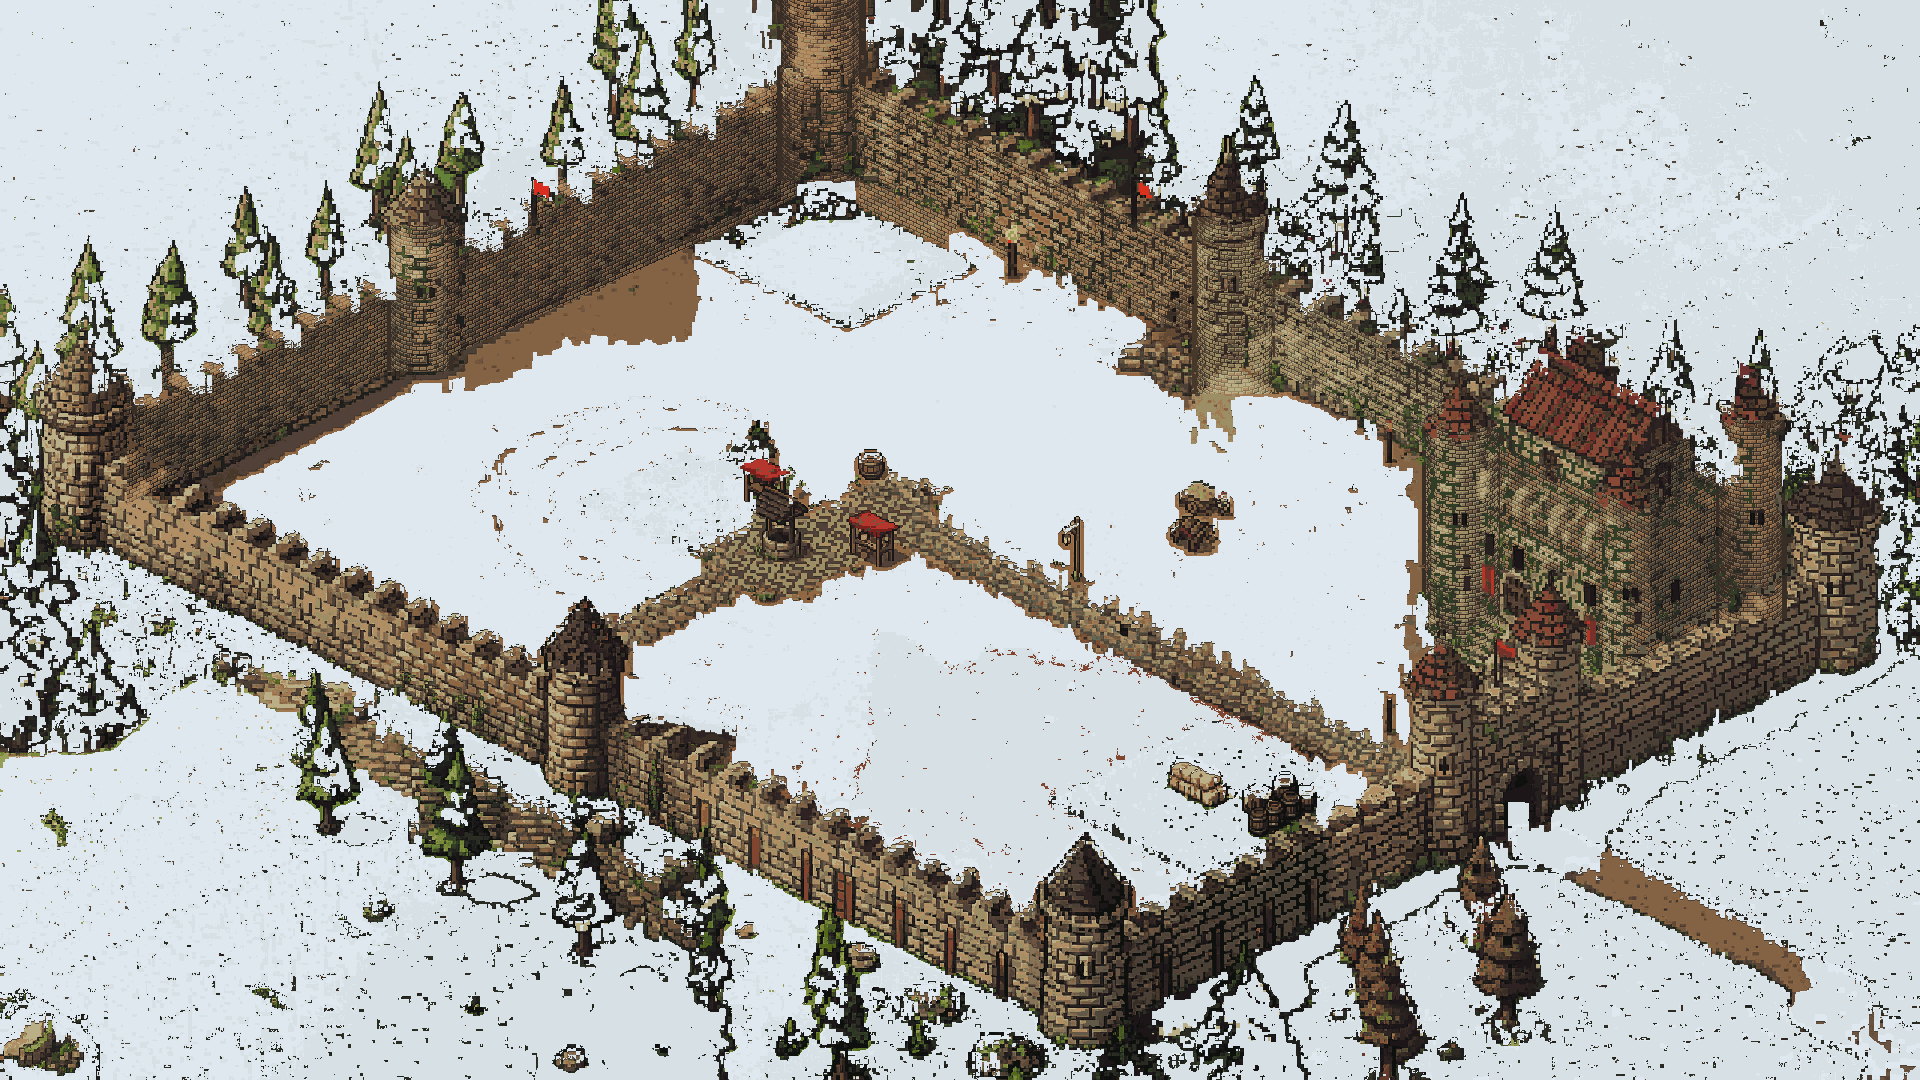
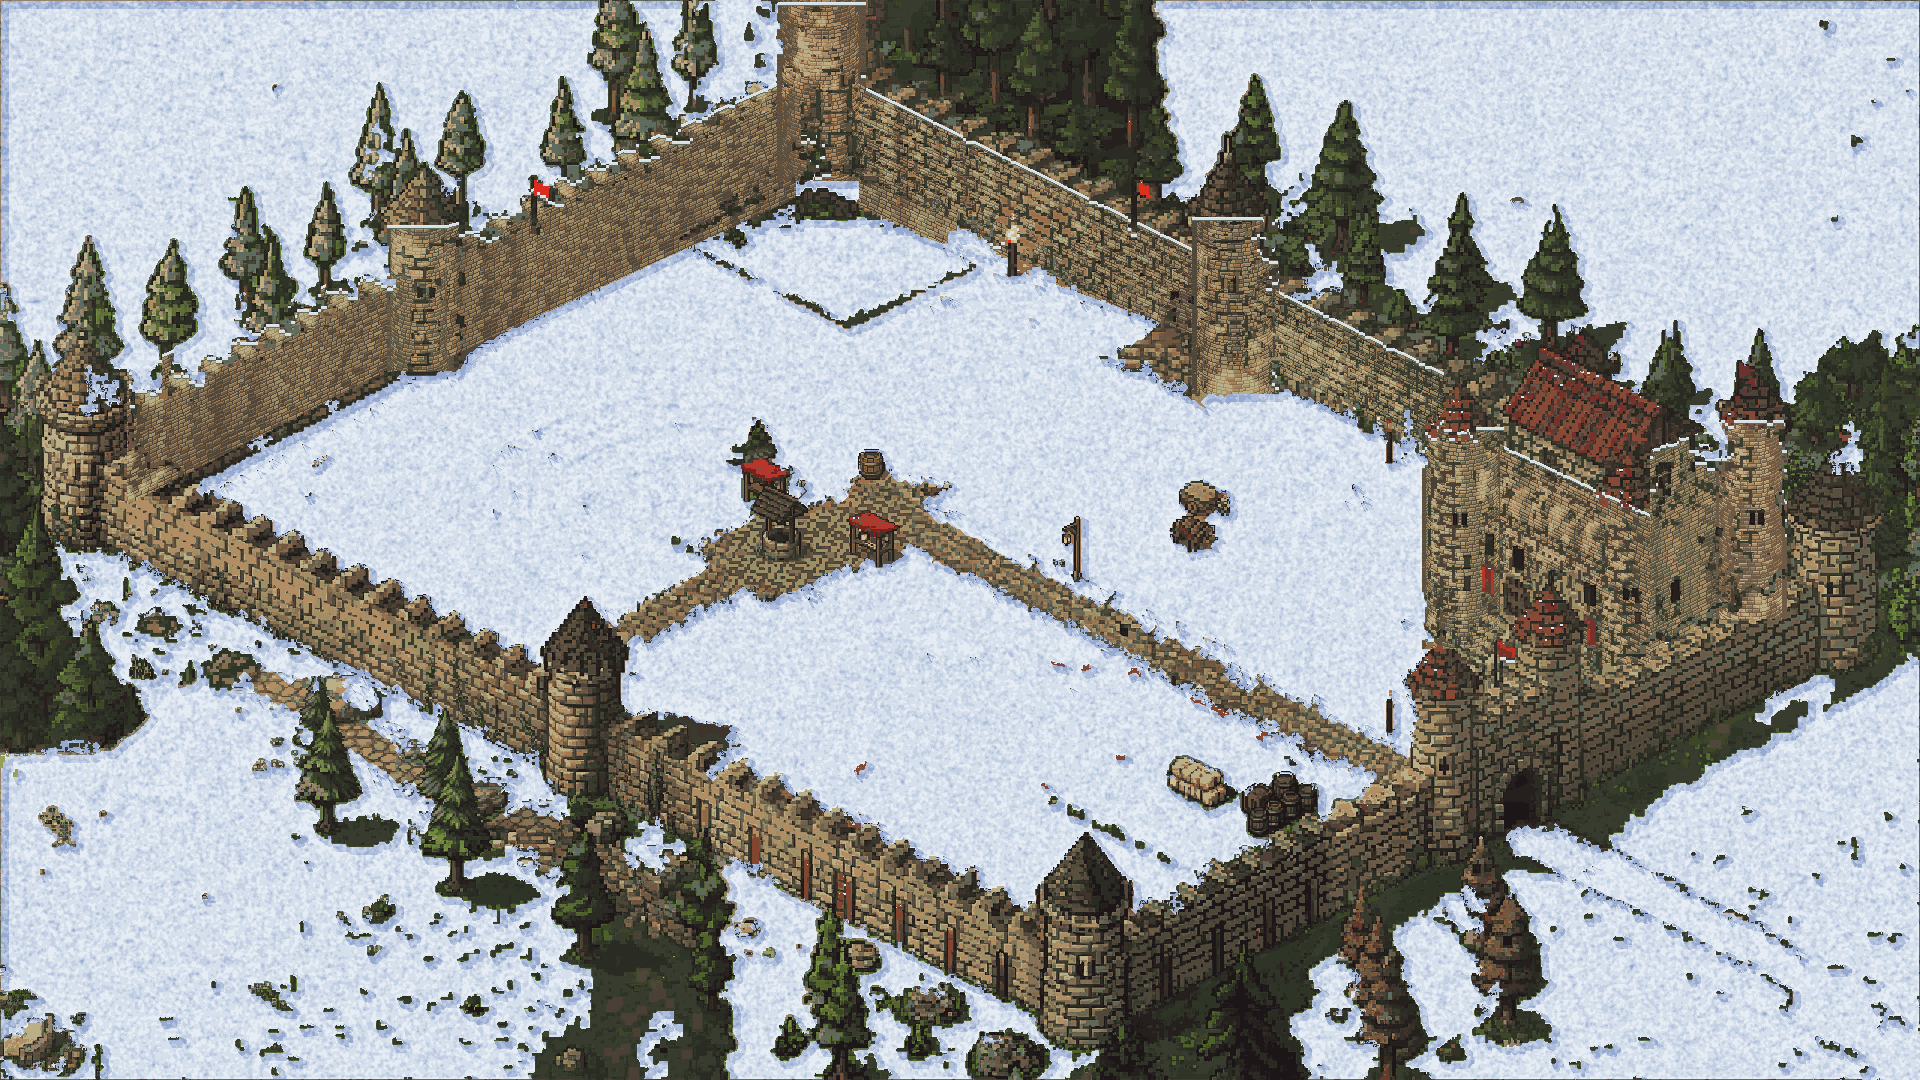
Ic kale: duzensiz tas deseni, kis yeniden yapildi, kis gecesi karli
Yaz: tas deseni duzensiz (sira 3-4 px, tas 5/7/9 px, rastgele kaydirma, +-2 ton,
ara sira koyu/yosunlu tas, ust kenarda sicak vurgu). Isik ve ton olcumunden eski
derzler cikarildi (arka sur aydinlandi), ton yuz basina degil goruntu geneline
yariyariya esitlendi (kule-sur dikisi), ana kale yuzlerinde kontrast eskiye
gore. Sol alttaki kaya yigini, yol taslari, sarmasik ve calilar eskiden geri.
Kis (kar2.py): agac, sur ve catilar butun bolgeler olarak korunur, kar yalniz
yukari bakan kenarlara (sur ustu, mazgal, kule ve cati tepesi 2-3 px, dal
ustleri 1-2 px), zemin karli bina varyantlarindan turetilen 5 tonla, kumeli
doku ve nesnelerin sag-alt yaninda mavi golge. Kucuk kirintilar ve toprak
haleleri kara katildi, yosun ve yaz yesilleri sogutuldu.
varyant.js: kis gecesi zemin ve on surlar karli doku + gece tonu.

diff --git a/motor-deneme-5b8e2f/js/varyant.js b/motor-deneme-5b8e2f/js/varyant.js
@@ -118,6 +118,10 @@ const Varyant = {
         c.temelDoku = c.temelDoku || k;
         const ozel = (h === 'karli' || h === 'gece') ? c.temelDoku + '_' + h : null;
         if (ozel && sahne.textures.exists(ozel)) { if (k !== ozel) c.setTexture(ozel); this.geceTonu(c, ozel); continue; }
+        // kış gecesi: zemin ve ön surlar karlı kalır, üstüne gece tonu (yoksa karsız yaz zemini görünürdü)
+        const kisDoku = c.temelDoku + '_karli';
+        if (h === 'gece' && /^k_(arka|on)$/.test(c.temelDoku) && this.sezon(sahne.oyun).varyant === 'karli'
+            && sahne.textures.exists(kisDoku)) { if (k !== kisDoku) c.setTexture(kisDoku); c.setTint(ton); continue; }
         if (k !== c.temelDoku) c.setTexture(c.temelDoku);
       }
       if (ton === null) c.clearTint(); else c.setTint(ton);

diff --git a/motor-deneme-5b8e2f/uretim/betikler/kar2.py b/motor-deneme-5b8e2f/uretim/betikler/kar2.py
@@ -1,0 +1,206 @@
+"""Winter, second approach: objects stay whole, snow only where it would lie.
+
+1. Ground = smooth grass, dirt, grass in shadow, lit grass/field away from trees. Tiny leftovers of
+   either class (< 30 px) are merged into the other, so no black splinters stay in the snow.
+2. Ground snow: 4 tones taken from the snowy building variants (assets/kale/varyant/*_karli), small
+   clustered texture, blue shadow on the lower-right side of every object (light from the top left),
+   a lighter drift along object feet facing the light.
+3. Objects keep their pixels. Snow caps where a pixel faces up: trees 1-2 px on branch tops, walls
+   and towers 2-3 px on wall tops / merlons / tower caps (from the stone mask of the old art, so the
+   new mortar lines do not count as edges), roofs 2 px on their top edge, a 1 px cold line under
+   wall caps. Moss / summer greens on stone are cooled, tree trunks slightly cooled.
+
+  python kar2.py arka on
+"""
+import glob
+import os
+import sys
+
+import numpy as np
+from PIL import Image
+from scipy import ndimage
+
+sys.path.insert(0, os.path.dirname(os.path.abspath(__file__)))
+import arka_hd as A  # noqa: E402
+import tas_desen as T  # noqa: E402
+
+HD = "D:/AI/ComfyUI/output/son-kale-v2/arka_hd"
+KALE = "D:/AI/son-kale/motor-deneme-5b8e2f/assets/kale"
+
+
+def kar_tonlari(n=5):
+    """Snow tones of the snowy building variants, light to dark."""
+    px = []
+    for p in glob.glob(f"{KALE}/varyant/*_karli.png"):
+        a = np.asarray(Image.open(p).convert("RGBA")).reshape(-1, 4)
+        a = a[a[:, 3] > 200][:, :3].astype(np.float32)
+        mx, mn = a.max(1), a.min(1)
+        sat = (mx - mn) / np.maximum(mx, 1)
+        lum = a @ [0.299, 0.587, 0.114]
+        px.append(a[(sat < 0.22) & (lum > 120) & (a[:, 2] >= a[:, 0] - 4)])
+    px = np.concatenate(px)
+    lum = px @ [0.299, 0.587, 0.114]
+    # the variants' snow is nearly one colour: start from their lightest tone and step towards a cold
+    # blue grey, so the ground has 3-4 readable tones and a shadow tone
+    acik = np.median(px[lum >= np.quantile(lum, 0.8)], 0)
+    adim = np.array([[0, 0, 0], [16, 13, 7], [34, 28, 15], [56, 46, 24], [80, 66, 34]], np.float32)
+    return np.clip(acik - adim[:n], 0, 255)
+
+
+ZEMIN = []
+
+
+def kaydir(m, dy, dx):
+    out = np.zeros_like(m)
+    H, W = m.shape
+    ys, yd = (slice(0, H - dy), slice(dy, H)) if dy >= 0 else (slice(-dy, H), slice(0, H + dy))
+    xs, xd = (slice(0, W - dx), slice(dx, W)) if dx >= 0 else (slice(-dx, W), slice(0, W + dx))
+    out[yd, xd] = m[ys, xs]
+    return out
+
+
+def karla(ad, im):
+    a = np.asarray(im.convert("RGBA"))
+    H, W = a.shape[:2]
+    alfa = a[..., 3] > 0
+    f = a[..., :3].astype(np.float32)
+    r, g, b = f[..., 0], f[..., 1], f[..., 2]
+    lum = f @ [0.299, 0.587, 0.114]
+    mx, mn = f.max(-1), f.min(-1)
+    sat = (mx - mn) / np.maximum(mx, 1)
+    mo = ndimage.uniform_filter(lum, 7)
+    sd = np.sqrt(np.maximum(ndimage.uniform_filter(lum ** 2, 7) - mo ** 2, 0))
+
+    # structures of the old art (stone mask inside the face polygons) and roofs
+    o = np.asarray(Image.open(f"{T.ORJ}/{ad}.png").convert("RGBA").resize((W, H), Image.Resampling.NEAREST))
+    tas = T.tas_maskesi(o)
+    yuz = np.zeros((H, W), bool)
+    for kind, poli, par in T.YUZLER[ad]:
+        _, m = T.desen(H, W, poli, kind, par, np.zeros((H, W)), np.zeros((9, 3)), 1)
+        yuz |= m
+    # whole regions, not per-pixel classes: vines and mortar must not split a wall into "tops"
+    yapi = ndimage.binary_fill_holes(ndimage.binary_closing(tas & yuz, np.ones((5, 5)))) & yuz
+    cati0 = (r > g * 1.3) & (sat >= 0.4) & (g < r * 0.6)
+    lab, n = ndimage.label(cati0)
+    if n:
+        boy = np.bincount(lab.ravel()); boy[0] = 0
+        cati0 &= (boy >= 20)[lab]
+    cati = ndimage.binary_fill_holes(ndimage.binary_closing(cati0, np.ones((5, 5))))
+
+    yesil = (g >= r * 0.98) & (g > b * 1.1)
+    # trees: dark-green cores of a fair size, grown into whole crowns (lit needles included)
+    # crowns: dark green needles + the near-black outline around them close the shape, then fill it
+    koyu = ((yesil & (lum <= 62)) | (lum <= 40)) & ~yapi & ~cati
+    lab, n = ndimage.label(koyu)
+    if n:
+        boy = np.bincount(lab.ravel()); boy[0] = 0
+        koyu &= (boy >= 25)[lab]
+    agac = ndimage.binary_fill_holes(ndimage.binary_closing(koyu, np.ones((5, 5))))
+    agac &= ~ndimage.binary_opening(cimen0 := ((g > r * 1.02) & (g > b * 1.12) & (lum > 55) & (lum < 125)), np.ones((9, 9)))
+    agac = ndimage.binary_dilation(agac, iterations=1) & ~yapi & ~cati
+    cimen = (g > r * 1.02) & (g > b * 1.12) & (lum > 55)
+    toprak = (r > g * 1.25) & (g > r * 0.52) & (g > b * 1.05) & (lum > 42) & (lum < 175)
+    zemin = (cimen & (sd < 30)) | (toprak & (sd < 18)) | (yesil & (lum <= 62) & (sd < 9))
+    zemin &= ~agac
+    if ad == "arka":
+        # dark roof backs and trunks behind the keep are not dirt
+        zemin[int(195 * 1.5):int(300 * 1.5), int(960 * 1.5):int(1150 * 1.5)] &= cimen[int(195 * 1.5):int(300 * 1.5), int(960 * 1.5):int(1150 * 1.5)] & ~agac[int(195 * 1.5):int(300 * 1.5), int(960 * 1.5):int(1150 * 1.5)]
+        # north field: wheat and grass patch inside the courtyard corner is ground as well
+        tarla = np.zeros((H, W), bool); tarla[220:292, 750:942] = True
+        zemin |= tarla & (lum > 60) & ~yapi & (sat < 0.7)
+    else:
+        zemin &= cimen
+    zemin &= alfa & ~yapi & ~cati
+    zemin = ndimage.binary_closing(zemin, np.ones((3, 3))) & alfa & ~yapi & ~cati
+    # tiny islands: object specks inside snow -> snow, snow specks inside objects -> object
+    lab, n = ndimage.label(~zemin & alfa)
+    if n:
+        boy = np.bincount(lab.ravel()); boy[0] = 0
+        zemin |= (boy < 30)[lab] & ~yapi & ~cati & ~agac & (lab > 0)
+    lab, n = ndimage.label(zemin)
+    if n:
+        boy = np.bincount(lab.ravel()); boy[0] = 0
+        zemin &= (boy >= 400)[lab]   # pockets inside tree crowns stay part of the tree
+    # brown rims and old cart tracks: dirt-coloured pixels touching the snow join it
+    kir = (r > g * 1.15) & (g > b * 1.0) & (lum > 28) & (lum < 175) & alfa & ~yapi & ~cati & ~agac
+    for _ in range(3):
+        zemin |= ndimage.binary_dilation(zemin, iterations=2) & kir
+    nesne = alfa & ~zemin
+
+    ton = kar_tonlari()           # 5 tones light -> dark (blue grey)
+    out = f.copy()
+    # ground texture: old brightness (bumps, tracks) + small clustered noise, 4 tones
+    rng = np.random.default_rng(3)
+    gur = ndimage.gaussian_filter(rng.standard_normal((H, W)), 1.1)
+    gur /= gur.std() + 1e-6
+    yerel = ndimage.gaussian_filter(lum, 1.0)
+    yerel = (yerel - ndimage.gaussian_filter(lum, 12)) / 25.0
+    t = 1.0 - 0.9 * yerel - 0.6 * gur                      # ~0 light .. ~3 dark
+    # shadow: an object up-left of the pixel (light from the top left)
+    golge = np.zeros((H, W), bool)
+    for k in range(1, 9):
+        golge |= kaydir(nesne, k // 2, k)
+        golge |= kaydir(nesne, k, k // 2)
+    golge &= zemin
+    yakin = ndimage.binary_dilation(nesne, iterations=2) & zemin
+    t = np.where(golge, t + 2.2, t)
+    t = np.where(yakin & ~golge, t - 0.8, t)               # light-facing drift at object feet
+    idx = np.clip(np.round(t), 0, 4).astype(int)
+    out[zemin] = ton[idx][zemin]
+    ZEMIN[:] = [zemin]
+
+    # caps on objects
+    acik = zemin | ~alfa                                   # open space above a cap
+    # structures: top faces = stone pixels whose pixel above is not stone (old art mask, so the new
+    # mortar does not count); 2-3 px deep
+    ust = yapi & ~kaydir(yapi, 1, 0)
+    kap_y = ust.copy()
+    for d in (1, 2):
+        kap_y |= kaydir(ust, d, 0) & yapi
+    kap_y &= alfa
+    out[kap_y] = ton[np.where(kaydir(kap_y, 1, 0) & kap_y, 1, 0)][kap_y]
+    alt = kaydir(kap_y, 1, 0) & ~kap_y & yapi
+    out[alt] = np.array([88, 96, 122], np.float32)
+    # roofs: 2 px on the top edge
+    ust_c = cati & ~kaydir(cati, 1, 0)
+    kap_c = (ust_c | (kaydir(ust_c, 1, 0) & cati)) & alfa
+    out[kap_c] = ton[0]
+    # trees: 1-2 px on branch tops facing open sky / snow
+    agac_n = agac & nesne
+    ust_a = agac_n & kaydir(acik, 1, 0)
+    kap_a = ust_a | (kaydir(ust_a, 1, 0) & agac_n & (lum > 45))
+    out[kap_a] = ton[np.where(ust_a, 0, 1)][kap_a]
+    # cool what is left: moss on stone, summer greens, trunks; then a light winter cast on objects
+    kalan = nesne & ~kap_y & ~kap_c & ~kap_a & ~alt
+    yosun = kalan & yesil & ~agac
+    gri = out[yosun] @ [0.299, 0.587, 0.114]
+    out[yosun] = np.stack([gri * 0.92, gri * 0.97, gri * 1.08], -1)
+    agac_k = kalan & agac
+    out[agac_k] = out[agac_k] * np.array([0.9, 0.95, 1.06])
+    out[kalan] = out[kalan] * 0.92 + np.array([168, 182, 210], np.float32) * 0.08
+    return np.clip(out, 0, 255)
+
+
+def kis(ad):
+    yaz = Image.open(f"{HD}/{ad}_desen.png").convert("RGBA")
+    a = np.asarray(yaz)
+    k = karla(ad, yaz)
+    q = np.asarray(A.kuantala(Image.fromarray(k.astype(np.uint8)), A.palet(ad, kis=True))).copy()
+    fa = a[..., :3].astype(np.float32)
+    kir = (fa[..., 0] > 100) & (fa[..., 0] > fa[..., 1] * 1.6) & (fa[..., 0] > fa[..., 2] * 1.6)
+    lab, n = ndimage.label(kir)
+    if n:
+        boy = np.bincount(lab.ravel()); boy[0] = 0
+        kir &= (boy < 1500)[lab]
+    q[kir] = a[kir, :3]
+    z = ZEMIN[0]
+    q[z] = k[z].astype(np.uint8)          # snow tones bypass the palette (it would merge them)
+    out = Image.fromarray(np.dstack([q, a[..., 3]]).astype(np.uint8), "RGBA") if ad == "on" else Image.fromarray(q.astype(np.uint8))
+    p = f"{HD}/{ad}_karli.png"
+    out.save(p)
+    print(p)
+
+
+if __name__ == "__main__":
+    for ad in sys.argv[1:]:
+        kis(ad)

diff --git a/motor-deneme-5b8e2f/uretim/betikler/tas_desen.py b/motor-deneme-5b8e2f/uretim/betikler/tas_desen.py
@@ -27,6 +27,9 @@ CIKTI = "D:/AI/son-kale-cikti"
 S = 1.5
 BW, BH = 7, 4   # stone length / height in screen px
 
+GENEL = {}
+KALE_YUZ = {"arka": 7}   # faces from this index on are the keep (contrast matched to the old keep)
+
 # boxes (original coords) the pattern must not touch: small red-roofed tower and door in front of the keep
 HARIC = {"on": [], "arka": [(1000, 380, 1056, 450)]}
 
@@ -106,43 +109,70 @@ def tas_maskesi(o):
 
 
 def desen(H, W, poli, kind, par, isik, ramp, tohum=1):
-    """Pattern (colour per pixel) + mask for one face, in HD coords."""
+    """Pattern (colour per pixel) + mask for one face, in HD coords.
+
+    Irregular courses: every row is 3 or 4 px high, every stone 5, 7 or 9 px long, rows start at a
+    random offset; per stone a tone step of -2..+2, now and then a dark or mossy stone."""
     rng = np.random.default_rng(tohum)
-    yy, xx = np.mgrid[0:H, 0:W]
+    m = Image.new("L", (W, H), 0)
+    ImageDraw.Draw(m).polygon([(x * S, y * S) for x, y in poli], fill=255)
+    m = np.asarray(m) > 0
+    yy, xx = np.nonzero(m)
     if kind == "duz":
-        # rows parallel to the wall: v = y - slope * x, in 2:1 pixel steps
         v = yy - np.floor(xx * par).astype(int) if par > 0 else yy + np.floor(xx * -par).astype(int)
         u = xx.astype(np.float64)
-        isik_kenar = 0.0
+        kenar_k = np.zeros(len(xx))
+        dx = None
     else:
         cx, r = par[0] * S, par[1] * S
         dx = np.clip((xx + 0.5 - cx) / r, -0.999, 0.999)
-        v = (yy - np.round(0.5 * r * np.sqrt(1 - dx ** 2))).astype(int)   # rows bend with the ellipse
-        u = np.arcsin(dx) * r                                              # arc length along the row
-        isik_kenar = np.abs(dx)
-    sira = np.floor_divide(v, BH)
-    vi = v - sira * BH
-    kay = (sira % 2) * (BW // 2)
-    tas = np.floor((u + kay) / BW).astype(int)
-    ui = (u + kay) - tas * BW
-    # per-stone tone step (-1, 0, +1) from a hash of (row, stone)
-    h = (sira * 73856093) ^ (tas * 19349663) ^ tohum
-    adim = (np.abs(h) % 7)
-    adim = np.where(adim < 2, -1, np.where(adim > 4, 1, 0))
-    # base index from the old art's brightness (and darker towards a tower's edges)
-    taban = isik + isik_kenar ** 3 * 2.2
-    idx = np.round(taban).astype(int) + adim
-    derz = (vi == BH - 1) | (ui >= BW - 1)
-    kenar = ((vi == 0) | (ui < 1)) & ~derz
-    idx = np.where(kenar, idx - 2, idx)
+        v = (yy - np.round(0.5 * r * np.sqrt(1 - dx ** 2))).astype(int)
+        u = np.arcsin(dx) * r
+        kenar_k = np.abs(dx)
+    renk = np.zeros((H, W, 3), np.float32)
+    if len(xx) == 0:
+        return renk, m
+    # courses
+    v0, v1 = v.min(), v.max() + 1
+    yuk = rng.choice([3, 4, 4, 4], size=(v1 - v0) // 3 + 2)
+    bas = np.concatenate([[0], np.cumsum(yuk)])
+    sira = np.searchsorted(bas, v - v0, side="right") - 1
+    vi = (v - v0) - bas[sira]
+    sh = yuk[sira]
+    # stones along each course
+    u0 = u.min() - 10
+    tas = np.zeros(len(xx), int)
+    ui = np.zeros(len(xx))
+    boy = np.zeros(len(xx))
+    for s_ in np.unique(sira):
+        k = sira == s_
+        uu = u[k] - u0
+        L = rng.choice([5, 7, 7, 9], size=int(uu.max() // 5) + 3)
+        sb = np.concatenate([[0], np.cumsum(L)]) - rng.integers(0, 8)
+        t = np.searchsorted(sb, uu, side="right") - 1
+        tas[k] = t + s_ * 10000
+        ui[k] = uu - sb[t]
+        boy[k] = L[t]
+    hsh = (tas * 2654435761 + tohum * 97531) % 1000
+    adim = np.select([hsh < 120, hsh < 330, hsh < 670, hsh < 880], [-2, -1, 0, 1], 2)
+    koyu_tas = (hsh % 37) == 0
+    yosun = (hsh % 53) == 1
+    taban = isik[yy, xx] + kenar_k ** 3 * 2.2
+    idx = np.round(taban).astype(int) + adim + koyu_tas * 3
+    derz = (vi == sh - 1) | (ui >= boy - 1)
+    ust_k = (vi == 0) & ~derz
+    sol_k = (ui < 1) & ~derz & ~ust_k
+    idx = np.where(ust_k, idx - 2, idx)
+    idx = np.where(sol_k, idx - 1, idx)
     idx = np.where(derz, idx + 4, idx)
-    if kind == "kule":
-        idx = np.where(np.abs(dx) > 0.96, len(ramp) + 2, idx)   # tower silhouette against the wall
+    if dx is not None:
+        idx = np.where(np.abs(dx) > 0.96, len(ramp) + 2, idx)
     idx = np.clip(idx, 0, len(ramp) - 1)
-    renk = ramp[idx]
-    m = Image.new("L", (W, H), 0)
-    ImageDraw.Draw(m).polygon([(x * S, y * S) for x, y in poli], fill=255)
-    return renk, np.asarray(m) > 0
+    c = ramp[idx].astype(np.float32)
+    c[ust_k] += np.array([10, 6, -3], np.float32)          # warm light on the top edge (sun top left)
+    c[yosun & ~derz] = c[yosun & ~derz] * 0.6 + np.array([70, 86, 46], np.float32) * 0.4
+    renk[yy, xx] = np.clip(c, 0, 255)
+    return renk, m
 
 
 def uygula(ad, hd_img, yuzler=None):
@@ -152,19 +182,31 @@ def uygula(ad, hd_img, yuzler=None):
     ramp = tas_rampasi(ad=ad)
     rl = ramp @ [0.299, 0.587, 0.114]
     # brightness of the old art -> ramp index (blurred: face shading, not the old stones)
-    lum = ndimage.gaussian_filter(o[..., :3].astype(np.float32) @ [0.299, 0.587, 0.114], 3.0)
+    # old mortar lines removed (grey closing) before measuring the light, else dark walls stay dark
+    lum0 = ndimage.grey_closing(o[..., :3].astype(np.float32) @ [0.299, 0.587, 0.114], size=(3, 3))
+    lum = ndimage.gaussian_filter(lum0, 2.5)
     isik = np.interp(-lum, -rl, np.arange(len(ramp)))
     tas_m = tas_maskesi(o)
+    GENEL[ad] = o[tas_m & (lum0 > 60), :3].astype(np.float32).mean(0)
     for x0, y0, x1, y1 in HARIC.get(ad, []):
         tas_m[int(y0 * S):int(y1 * S), int(x0 * S):int(x1 * S)] = False
     out = np.asarray(hd_img.convert("RGBA")).copy()
     for i, (kind, poli, par) in enumerate(yuzler if yuzler is not None else YUZLER[ad]):
         renk, m = desen(H, W, poli, kind, par, isik, ramp, tohum=i + 1)
         m &= tas_m
-        # same average brightness as the old stones of this face
+        # brightness of the old STONES of this face (mortar left out), pulled half way to the whole
+        # image so towers and walls do not change tone at the seam; keep faces also get the old contrast
         if m.any():
-            eski = o[m, :3].astype(np.float32).mean(0)
-            renk = np.clip(renk + (eski - renk[m].mean(0)) * 0.9, 0, 255)
+            ta = m & (lum0 > 60)
+            eski = o[ta if ta.any() else m, :3].astype(np.float32).mean(0)
+            eski = eski * 0.5 + GENEL[ad] * 0.5
+            renk = np.clip(renk + (eski - renk[m].mean(0)), 0, 255)
+            if i >= KALE_YUZ.get(ad, 99):
+                lo = o[m, :3].astype(np.float32) @ [0.299, 0.587, 0.114]
+                ln = renk[m] @ [0.299, 0.587, 0.114]
+                k = np.clip(lo.std() / max(ln.std(), 1), 1.0, 1.6)
+                mm = renk[m].mean(0)
+                renk[m] = np.clip((renk[m] - mm) * k + mm * 1.06, 0, 255)
         out[m, :3] = renk[m].astype(np.uint8)
         # 1 px dark outline where the patterned stone meets sky / ground / transparency (merlons, edges)
         acik = ~tas_m if o.shape[-1] != 4 else (~tas_m | (o[..., 3] == 0))
@@ -212,6 +254,16 @@ def arka_son(im):
     kirmizi = (r > 100) & (r > g * 1.6) & (r > b * 1.6)
     geri = kale & (yesil | kirmizi)
     a[geri] = o[geri]
+    # bottom-left rubble / rocks, stones and vines at the wall foot, bushes: the redraw turned them to
+    # mud; the old art comes back there, except plain smooth grass
+    lum_o = of @ [0.299, 0.587, 0.114]
+    mo = ndimage.uniform_filter(lum_o, 7)
+    sd = np.sqrt(np.maximum(ndimage.uniform_filter(lum_o ** 2, 7) - mo ** 2, 0))
+    duz_cimen = (g > r * 1.02) & (g > b * 1.15) & (lum_o > 55) & (sd < 14)
+    for x0, y0, x1, y1 in ((330, 700, 560, 830), (130, 620, 480, 760)):     # screen coords
+        kut = np.zeros((H, W), bool); kut[y0:y1, x0:x1] = True
+        al = kut & ~ndimage.binary_opening(duz_cimen, np.ones((3, 3)))
+        a[al] = o[al]
     # torch / lamp flames: small bright yellow spots of the old art
     alev = (r > 170) & (g > 140) & (b < 120) & (r - b > 90)
     lab, n = ndimage.label(ndimage.binary_dilation(alev, iterations=1))

diff --git a/motor-deneme-5b8e2f/uretim/kisa-ozet.md b/motor-deneme-5b8e2f/uretim/kisa-ozet.md
@@ -98,7 +98,7 @@ python arka_hd.py tam arka --t 512 --ov 128 --denoise 0.4 --cn 0.5 --seed 7   # 
 python arka_hd.py tam on   --t 512 --ov 128 --denoise 0.4 --cn 0.5 --seed 7
 python tas_desen.py on        # surlara kodla düzenli taş deseni -> on_desen.png
 python tas_desen.py arka      # aynı + ana kale sarmaşık/kırmızı, meşale, ön sur halesi -> arka_desen.png
-python kis_yap.py on arka     # kodla kar + kış paleti -> on_karli.png, arka_karli.png
+python kar2.py arka on       # kış: nesneler bütün, kar yalnız üst kenarlarda + 4-5 tonlu zemin karı -> *_karli.png
 ```
 Oyuna: `arka_desen.png -> assets/kale/arka.png`, `on_desen.png -> on.png`, `*_karli.png` aynı adla.
 Yüz poligonları `tas_desen.py` içinde (orijinal 1280x720 / 1240x482 koordinatları), koruma kutuları `arka_hd.py KORU`.
